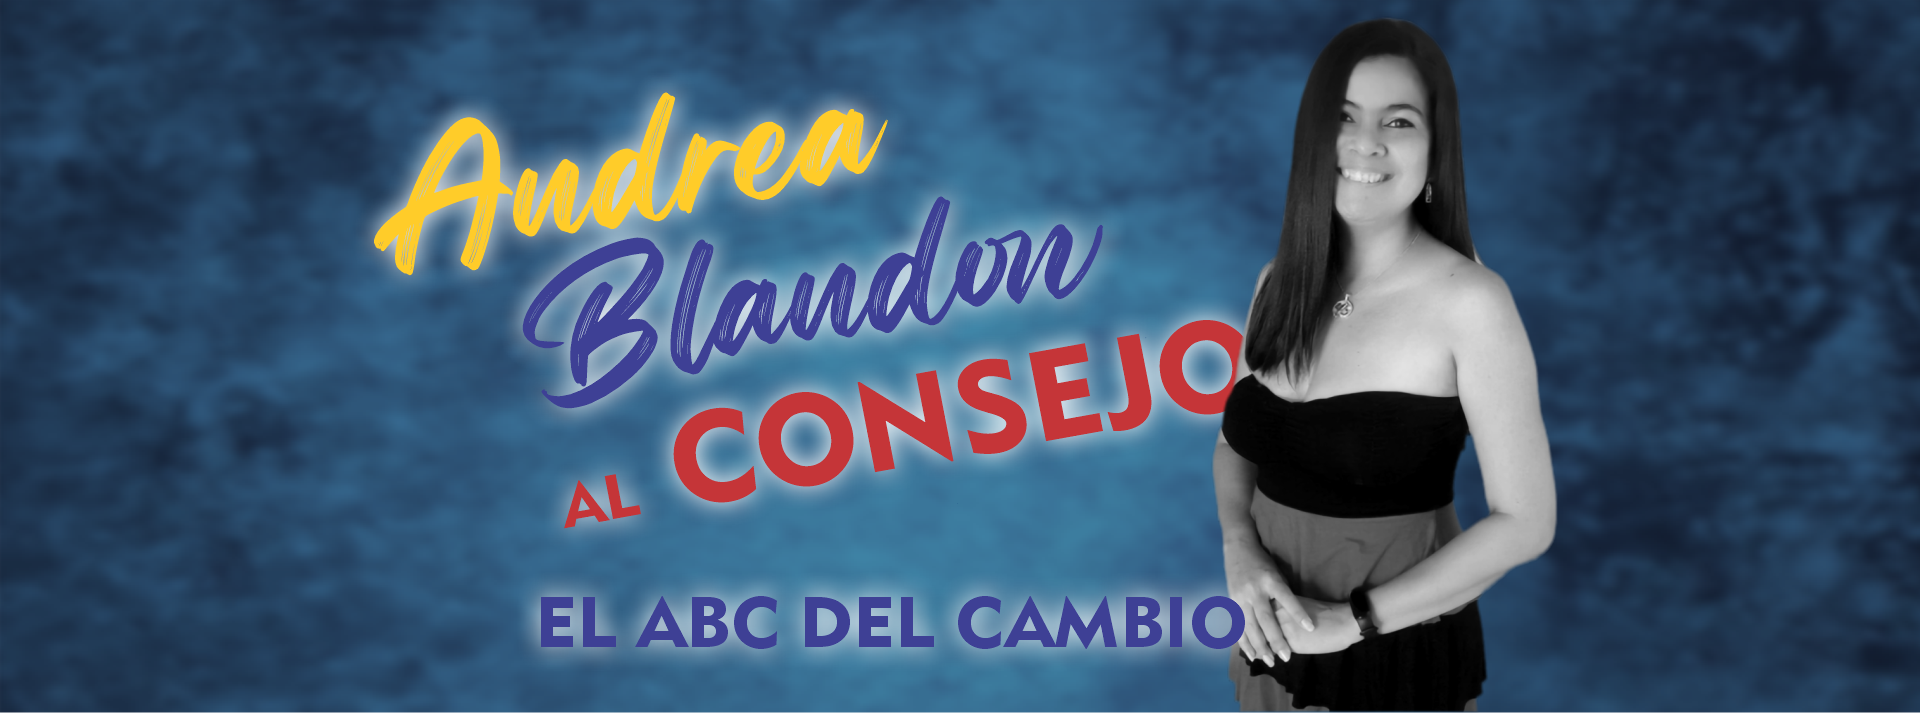
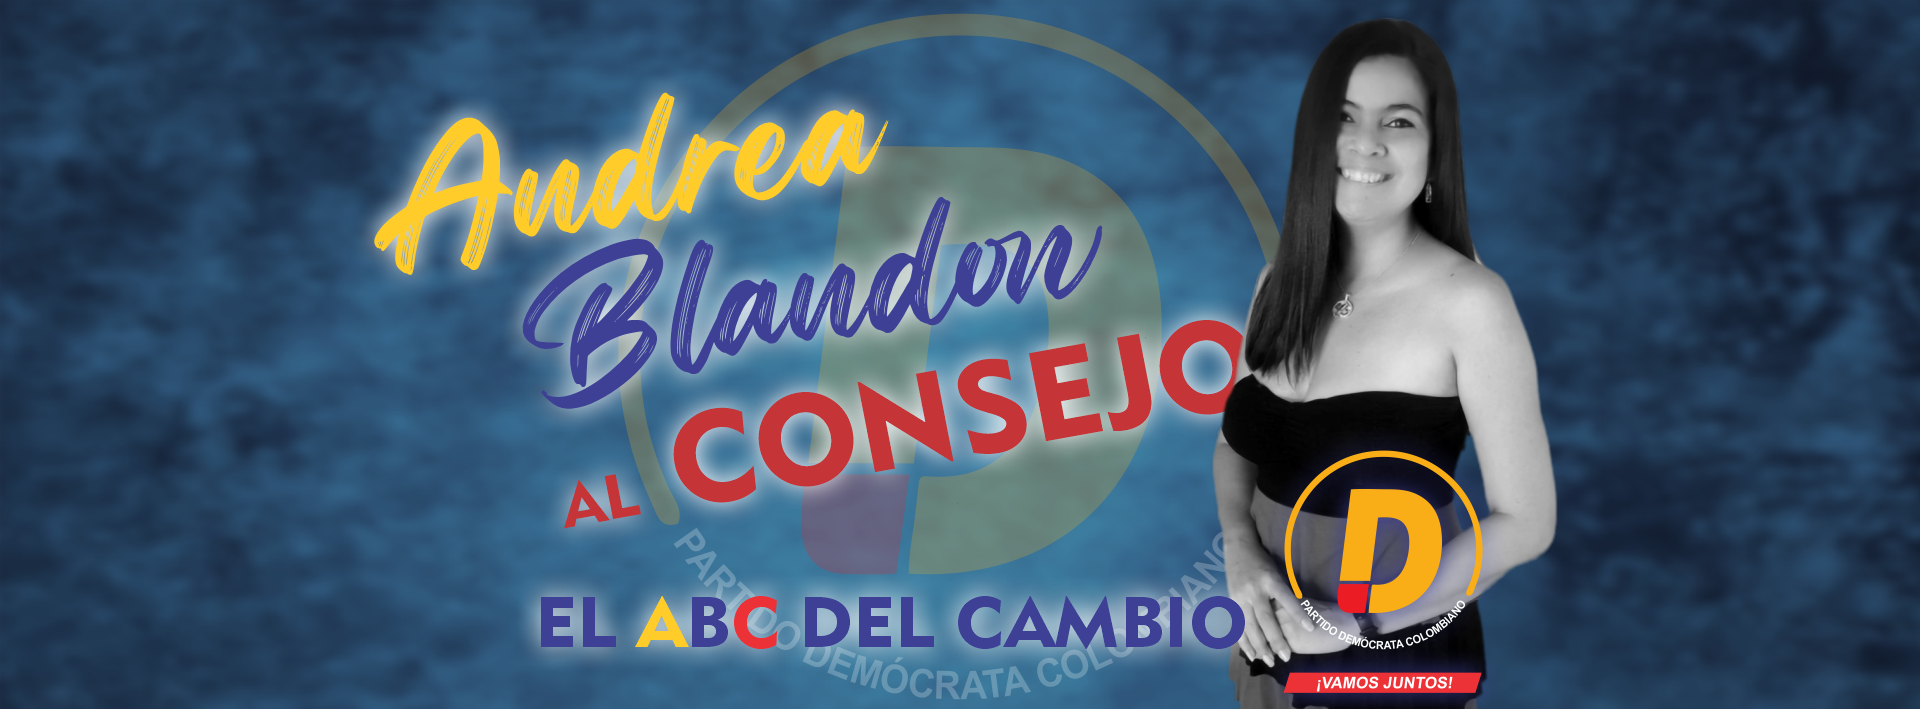
aplicacion completada

Changed region(s): [[0.0, 0.0, 1.0, 1.0], [0.625, 0.5275, 0.75, 0.5896], [0.1875, 0.3103, 0.2188, 0.3724]]

diff --git a/src/sections/footer/footer.jsx b/src/sections/footer/footer.jsx
@@ -1,0 +1,27 @@
+import "./footer.css";
+import {BsFacebook, BsWhatsapp, BsTwitter, BsInstagram} from 'react-icons/bs';
+
+function Footer (){
+    return <footer>
+        
+        <div className="footer">
+            <div className="footer__partido">
+                <img src="/img/logo_democrata.svg" alt="logo" className="footer__logo"/>
+                <div className="footer__text">
+                    <h2 className="footer__title">Partido Democrata Colombiano</h2>
+                    <h4 className="footer__subtitle">Vamos Juntos</h4>
+                </div>
+            </div>
+            <img src="/img/andrea_logo.svg" alt="logo andrea" className="andrea__logo"/>
+            <div className="footer__icons">
+                <a href="https://www.facebook.com/" target="blank"><BsFacebook className="footer__icon__item"/></a>
+                <a href="https://www.instagram.com/" target="blank"><BsInstagram className="footer__icon__item"/></a>
+                <a href="https://twitter.com/" target="blank"><BsTwitter className="footer__icon__item"/></a>
+                <a href="https://www.whatsapp.com/" target="blank"><BsWhatsapp className="footer__icon__item"/></a>
+            </div>
+        </div>
+        
+    </footer>
+}
+
+export default Footer

diff --git a/src/sections/header/header.jsx b/src/sections/header/header.jsx
@@ -2,6 +2,9 @@ import "./header.css"
 import React from "react"
 
 function Header() {
+
+    
+
     return <header className="header">
         <div className="header__main">
             <img src="/img/logo_democrata.svg" alt="logo" className="header__logo"/>
@@ -12,9 +15,11 @@ function Header() {
         </div>
         <nav className="header__nav">
             <ul className="header__nav__list">
-                <li className="header__nav__item"><a href="#">Inicio</a></li>
-                <li className="header__nav__item"><a href="#">Sobre Mi</a></li>
-                <li className="header__nav__item"><a href="#">Contacto</a></li>
+                <li className="header__nav__item"><a href="#banner">Inicio</a></li>
+                <li className="header__nav__item"><a href="#about">Sobre Mi</a></li>
+                <li className="header__nav__item"><a href="#objetive">Objetivos</a></li>
+                <li className="header__nav__item"><a href="#footer">Contacto</a></li>
+
             </ul>
         </nav>
     </header>

diff --git a/src/sections/header/header.css b/src/sections/header/header.css
@@ -43,7 +43,7 @@
 }
 
 .header__nav__item a{
-    font-size: 20px;
+    font-size: 1.2rem;
     padding: 0px 15px;
     color: white;
     text-decoration: none;
@@ -53,16 +53,30 @@
     padding: 2px 20px;
     font-weight: bolder;
     transition: 400ms ease-in-out;
+    cursor: pointer;
 }
 
 .header__nav__item a:hover{
     background-color: white;
     color: #1A4682;
-    padding: 5px 30px;
+    padding: 0px 35px;
 }
 
 /*Responsive*/
-@media only screen and (max-width: 476px){
+
+@media only screen and (max-width: 1071px){
+    .header__nav__list{
+        padding: initial;
+    }
+}
+
+@media only screen and (max-width: 700px){
+    .header__nav__item a{
+        font-size: 1rem;
+    }
+}
+
+@media only screen and (max-width: 505px){
     .header{
         display: flex;
         flex-direction: column;
@@ -87,7 +101,12 @@
     }
 
     .header__nav__list{
+        display: none;
         padding: initial;
+    }
+
+    .header__nav__item a{
+        font-size: 0.8rem;
     }
 }
 

diff --git a/src/components/card/card.css b/src/components/card/card.css
@@ -1,0 +1,60 @@
+.card{
+    width: 400px;
+}
+
+.card__body{
+    width: 400px;
+    border-radius: 15px;
+    box-shadow: 10px 10px 15px rgba(0, 0, 0, 0.25);
+    margin-top: 30px;
+    
+}
+
+.card__image{
+    width: 400px;
+    border-radius: 15px 15px 0px 0px;
+    
+}
+
+.card__foot{
+    width: 400px;
+    background-color: white;
+    margin-top: -15px;
+    border-radius: 0px 0px 15px 15px;
+}
+
+.card__letter{
+    margin: initial;
+    text-align: center;
+    font-size: 100px;
+}
+
+.card__text{
+    text-align: center;
+    font-weight: bold;
+    font-size: 1.2rem;
+    color: #1A4682;
+}
+
+@media only screen and (max-width: 476px){
+    .card{
+        width: 80%;
+    }
+    
+    .card__body{
+        width: 100%;
+        margin: initial;
+    }
+
+    .card__image{
+        width: 100%;
+    }
+
+    .card__foot{
+        width: 100%;
+    }
+
+    .card__letter{
+        font-size: 2rem;
+    }
+}

diff --git a/src/sections/objetive/objetive.jsx b/src/sections/objetive/objetive.jsx
@@ -1,0 +1,15 @@
+import "./objetive.css"
+import Card from "../../components/card/card"
+
+function Objetive() {
+    return <div className="objetive">
+        <h1 className="objetive__title">NUESTROS OBJETIVOS</h1>
+        <div className="objetive__cards">
+            <Card className="about__card" imagen="/img/apoyar_image.png" letra="A" parrafo="Ayudar a fortalecer nuestra ciudad" color="#F9AE17"/>
+            <Card className="about__card" imagen="/img/brindar_image.png" letra="B" parrafo="Brindar apoyo a quienes mas lo necesitan" color="#1A4682"/>
+            <Card className="about__card" imagen="/img/construir_image.jpg" letra="C" parrafo="Construir un futuro para nuestros niños" color="#ED3237"/>
+        </div>
+    </div>
+}
+
+export default Objetive

diff --git a/src/sections/footer/footer.css b/src/sections/footer/footer.css
@@ -1,0 +1,46 @@
+.footer{
+    display: flex;
+    flex-wrap: wrap;
+    background-color: #1A4682;
+    justify-content: space-evenly;
+    padding: 20px 0px;
+    align-items: center;
+    border-radius: 20px 20px 0px 0px;
+}
+
+.footer__partido{
+    display: flex;
+    align-items: center;
+}
+
+.footer__logo{
+    width: 6rem;
+    padding-right: 20px;
+}
+
+.footer__text{
+    color: white;
+    
+}
+
+.footer__title{
+    border-bottom: 2px solid white;
+    font-size: 1.3rem;
+}
+
+.footer__subtitle{
+    margin-top: -15px;
+    font-size: 1rem;
+}
+
+.andrea__logo{
+    width: 10rem;
+}
+
+.footer__icon__item{
+    color: white;
+    width: 2rem;
+    height: 3rem;
+    padding: 0px 10px;
+    cursor: pointer;
+}

diff --git a/src/App.js b/src/App.js
@@ -2,13 +2,26 @@ import './App.css';
 import Header from './sections/header/header';
 import Banner from './sections/banner/banner';
 import About from './sections/about/about';
+import Objetive from './sections/objetive/objetive';
+import Footer from './sections/footer/footer';
 
 function App() {
+
   return (
     <div className='main__div'>
       <Header/>
-      <Banner/>
-      <About/>
+      <section id='banner'>
+        <Banner/>
+      </section>
+      <section id='about'>
+        <About/>
+      </section>
+      <section id='objetive'>
+        <Objetive/>
+      </section>
+      <section id='footer'>
+        <Footer/>
+      </section>
     </div>
     
   );

diff --git a/src/sections/objetive/objetive.css b/src/sections/objetive/objetive.css
@@ -1,0 +1,29 @@
+.objetive{
+    margin-top: 60px;
+}
+
+.objetive__title{
+    text-align: center;
+    font-weight: bolder;
+    color: #1A4682;
+}
+
+.objetive__cards{
+    display: flex;
+    justify-content: space-evenly;
+    flex-wrap: wrap;
+    padding: 15px 30px;
+    background-color: rgb(218, 218, 218);
+}
+
+@media only screen and (max-width: 476px){
+    .objetive{
+        padding: initial;
+        margin: initial;
+    }
+
+    .objetive__cards{
+        padding: initial;
+        margin: initial;
+    }
+}

diff --git a/src/components/card/card.jsx b/src/components/card/card.jsx
@@ -1,0 +1,18 @@
+import "./card.css"
+
+function Card(props) {
+
+    const {imagen, letra, parrafo, color} = props
+
+    return <div className="card">
+        <div className="card__body">
+            <img src={imagen} alt="Imagen Tarjeta" className="card__image"/>
+            <div className="card__foot">
+                <h1 className="card__letter" style={{color: color}}>{letra}</h1>
+            </div>
+        </div>
+        <p className="card__text">{parrafo}</p>
+    </div>
+}
+
+export default Card

diff --git a/src/sections/about/about.jsx b/src/sections/about/about.jsx
@@ -2,7 +2,10 @@ import "./about.css"
 
 function About() {
     return <div className="about">
-        <h1 style={{textAlign: "center"}}>aqui va una breve biografia</h1>
+        <p className="about__text">
+            Hola, mi nombre es Andrea Blandon, y quiero que juntos logremos el cambio que necesita nuestra ciudad.
+        </p>
+        <img src="/img/logo_democrata.svg" alt="Logo" className="about__logo"/>
     </div>
 }
 

diff --git a/src/sections/about/about.css b/src/sections/about/about.css
@@ -1,3 +1,21 @@
 .about{
-    background-color: rgb(218, 218, 218);
+    display: flex;
+    justify-content: space-evenly;
+    align-items: center;
+    width: 100%;
+    background-color: #1A4682;
+    margin-top: 40px;
+    padding: 20px 40px;
+    border-radius: 50px;
+    box-sizing: border-box;
+}
+
+.about__text{
+    font-weight: bold;
+    font-size: 20px;
+    color: white;
+}
+
+.about__logo{
+    width: 150px;
 }

diff --git a/public/index.html b/public/index.html
@@ -1,5 +1,5 @@
 <!DOCTYPE html>
-<html lang="es">
+<html lang="es" style="scroll-behavior: smooth;">
   <head>
     <meta charset="utf-8" />
     <link rel="icon" href="/img/logo_democrata.svg" />
